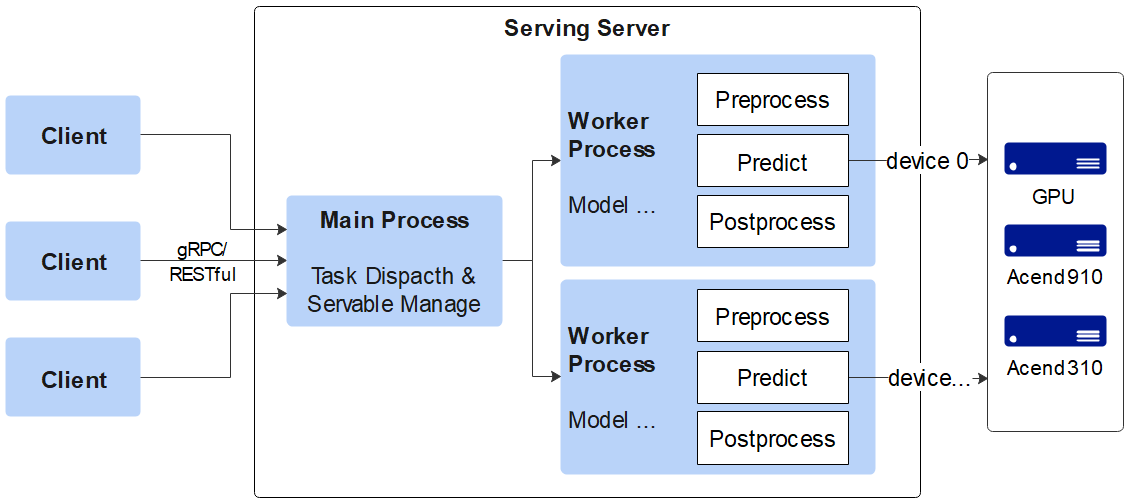
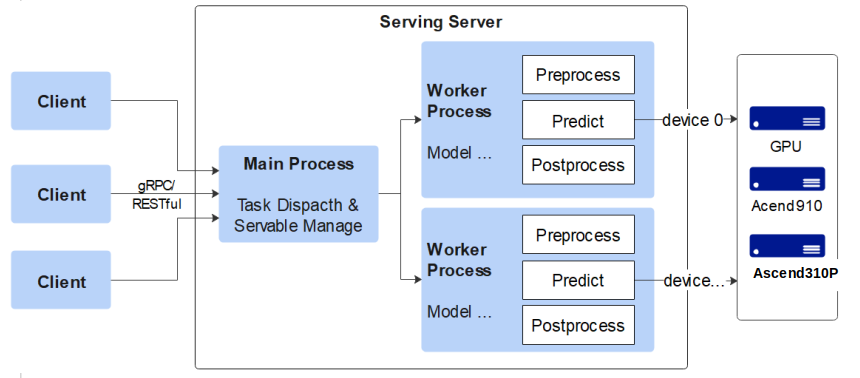
Update docs

Changed region(s): [[0.0, 0.0, 0.9977, 1.0], [0.9674, 0.1455, 0.9977, 0.1746]]

diff --git a/mindspore_serving/server/_servable_local.py b/mindspore_serving/server/_servable_local.py
@@ -77,13 +77,13 @@ class ServableStartConfig:
             named `servable_name`.
         servable_name (str): The servable name.
         device_ids (Union[int, list[int], tuple[int]], optional): The device list the model loads into and runs in.
-            Used when device type is Nvidia GPU, Ascend 310/310P/910. Default None.
+            Used when device type is Nvidia GPU, Ascend 310P/910. Default None.
         version_number (int, optional): Servable version number to be loaded. The version number should be a positive
             integer, starting from 1, and 0 means to load the latest version. Default: 0.
         device_type (str, optional): Target device type for model deployment. Currently supports "Ascend", "GPU", "CPU"
             and None. Default: None.
 
-            - "Ascend": the platform expected to be Ascend 310/310P/910, etc.
+            - "Ascend": the platform expected to be Ascend 310P/910, etc.
             - "GPU": the platform expected to be Nvidia GPU.
             - "CPU": the platform expected to be CPU.
             - None: the platform is determined by the MindSpore environment.

diff --git a/mindspore_serving/ccsrc/worker/local_servable/local_model_loader.cc b/mindspore_serving/ccsrc/worker/local_servable/local_model_loader.cc
@@ -107,9 +107,9 @@ Status LocalModelLoader::InitDevice(ModelType model_type) {
     return INFER_STATUS_LOG_ERROR(FAILED)
            << "Not support device type " << device_type << " and model type " << model_type
            << ". Current inference backend: " << inference_package
-           << ". When the inference backend is MindSpore, Ascend 910/310P/310 and GPU supports MindIR "
-           << "model, and Ascend 310P/310 supports OM model. When the inference backend is MindSpore Lite, "
-           << "Ascend 310P/310, GPU and CPU support MindIR and MindIR_Lite model converted by Lite converter tool.";
+           << ". When the inference backend is MindSpore, Ascend 910/310P and GPU supports MindIR "
+           << "model, and Ascend 310P supports OM model. When the inference backend is MindSpore Lite, "
+           << "Ascend 310P, GPU and CPU support MindIR and MindIR_Lite model converted by Lite converter tool.";
   }
   context->SetDeviceType(support_device_type);
   return SUCCESS;

diff --git a/mindspore_serving/server/_server.py b/mindspore_serving/server/_server.py
@@ -41,7 +41,7 @@ def start_servables(servable_configs, enable_lite=False):
 
     On Ascend 910 hardware platform, each copy of each servable owns one device. Different servables or different
     versions of the same servable need to be deployed on different devices.
-    On Ascend 310/310P and GPU hardware platform, one device can be shared by multi servables, and different servables
+    On Ascend 310P and GPU hardware platform, one device can be shared by multi servables, and different servables
     or different versions of the same servable can be deployed on the same chip to realize device reuse.
 
     For details about how to configure models to provide servables, please refer to

diff --git a/docs/api/api_python/server/mindspore_serving.server.ServableStartConfig.rst b/docs/api/api_python/server/mindspore_serving.server.ServableStartConfig.rst
@@ -8,11 +8,11 @@
     参数：
         - **servable_directory** (str) - 服务所在的目录。预期有一个名为 `servable_name` 的目录。
         - **servable_name** (str) - 服务名称。
-        - **device_ids** (Union[int, list[int], tuple[int]], 可选) - 模型部署和运行的设备列表，列表中的每个会设备将部署和运行一个服务副本。当设备类型为Nvidia GPU、Ascend 310/310P/910时使用。默认值：``None``。
+        - **device_ids** (Union[int, list[int], tuple[int]], 可选) - 模型部署和运行的设备列表，列表中的每个会设备将部署和运行一个服务副本。当设备类型为Nvidia GPU、Ascend 310P/910时使用。默认值：``None``。
         - **version_number** (int, 可选) - 要加载的服务的版本号。版本号应为正整数，从1开始，``0`` 表示加载最新版本。默认值：``0``。
         - **device_type** (str, 可选) - 模型部署的目标设备类型，目前支持 ``"Ascend"``、``"GPU"``、``"CPU"`` 和 ``None``。默认值：``None``。
 
-          - ``"Ascend"``：目标设备为Ascend 310/310P/910等。
+          - ``"Ascend"``：目标设备为Ascend 310P/910等。
           - ``"GPU"``：目标设备为Nvidia GPU。
           - ``"CPU"``：目标设备为CPU。
           - ``None``：系统根据实际的后端设备和MindSpor推理包决定目标设备，推荐使用默认值 ``None``。

diff --git a/docs/api/api_python/server/mindspore_serving.server.start_servables.rst b/docs/api/api_python/server/mindspore_serving.server.start_servables.rst
@@ -5,7 +5,7 @@
 
     本接口可以用来启动多个不同的服务。一个服务可以部署在多个设备上，其中每个设备运行一个服务副本。
 
-    在Ascend 910硬件平台上，每个服务的每个副本都独占一个设备。不同的服务或同一服务的不同版本需要部署在不同的设备上。在Ascend 310/310P和GPU硬件平台上，一个设备可以被多个服务共享，不同服务或同一服务的不同版本可以部署在同一设备上，实现设备复用。
+    在Ascend 910硬件平台上，每个服务的每个副本都独占一个设备。不同的服务或同一服务的不同版本需要部署在不同的设备上。在Ascend 310P和GPU硬件平台上，一个设备可以被多个服务共享，不同服务或同一服务的不同版本可以部署在同一设备上，实现设备复用。
 
     如何配置模型提供服务请查看
     `基于MindSpore Serving部署推理服务 <https://www.mindspore.cn/serving/docs/zh-CN/master/serving_example.html>`_ 和

diff --git a/README_CN.md b/README_CN.md
@@ -35,8 +35,8 @@ MindSpore Serving分为客户端、服务器两个部分。在客户端中，用
 一个可服务对象，即`Servable`，这里的`Servable`可以是单个模型，也可以是多个模型的组合，一个`Servable`可以围绕相同的模型通过多种方法来提供
 不同的服务。
 
-对于服务端，当以[MindSpore](#https://www.mindspore.cn/)作为推理后端时，MindSpore Serving当前支持Ascend 910/310P/310和Nvidia
-GPU环境。当以[MindSpore Lite](#https://www.mindspore.cn/lite)作为推理后端时，MindSpore Serving当前支持Ascend 310、Nvidia
+对于服务端，当以[MindSpore](#https://www.mindspore.cn/)作为推理后端时，MindSpore Serving当前支持Ascend 910/310P和Nvidia
+GPU环境。当以[MindSpore Lite](#https://www.mindspore.cn/lite)作为推理后端时，MindSpore Serving当前支持Ascend 310P、Nvidia
 GPU和CPU。客户端不依赖特定硬件平台。
 
 MindSpore Serving提供以下功能：

diff --git a/README.md b/README.md
@@ -38,9 +38,9 @@ distributes the requests to `Worker` nodes. `Servable` is deployed on a worker n
 combination of multiple models and can provide different services in various methods. `
 
 On the server side, when [MindSpore](#https://www.mindspore.cn/) is used as the inference backend,, MindSpore Serving
-supports the Ascend 910/310P/310 and Nvidia GPU environments. When [MindSpore Lite](#https://www.mindspore.cn/lite) is
-used as the inference backend, MindSpore Serving supports Ascend 310, Nvidia GPU and CPU environments. Client` does not
-depend on specific hardware platforms.
+supports the Ascend 910/310P and Nvidia GPU environments. When [MindSpore Lite](#https://www.mindspore.cn/lite) is
+used as the inference backend, MindSpore Serving supports Ascend 310P, Nvidia GPU and CPU environments. Client` does
+not depend on specific hardware platforms.
 
 MindSpore Serving provides the following functions:
 
